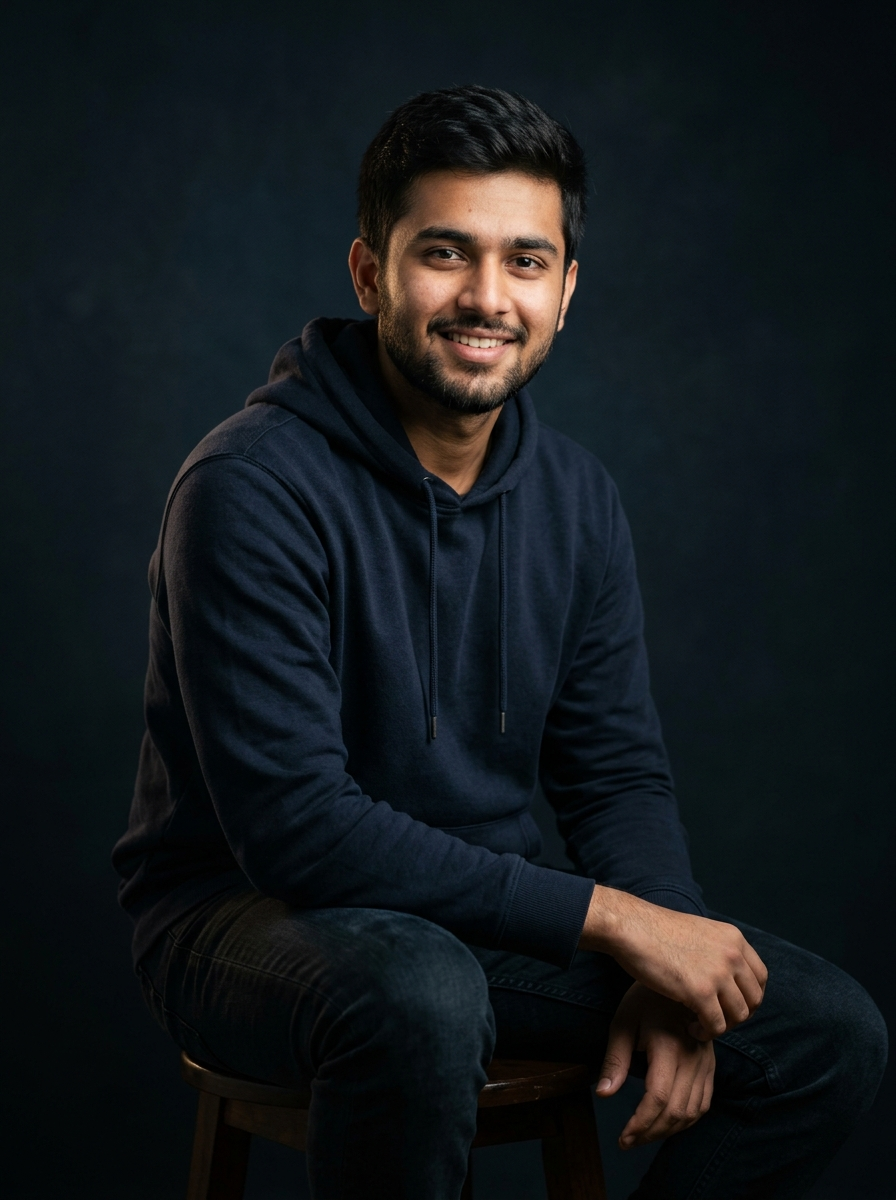
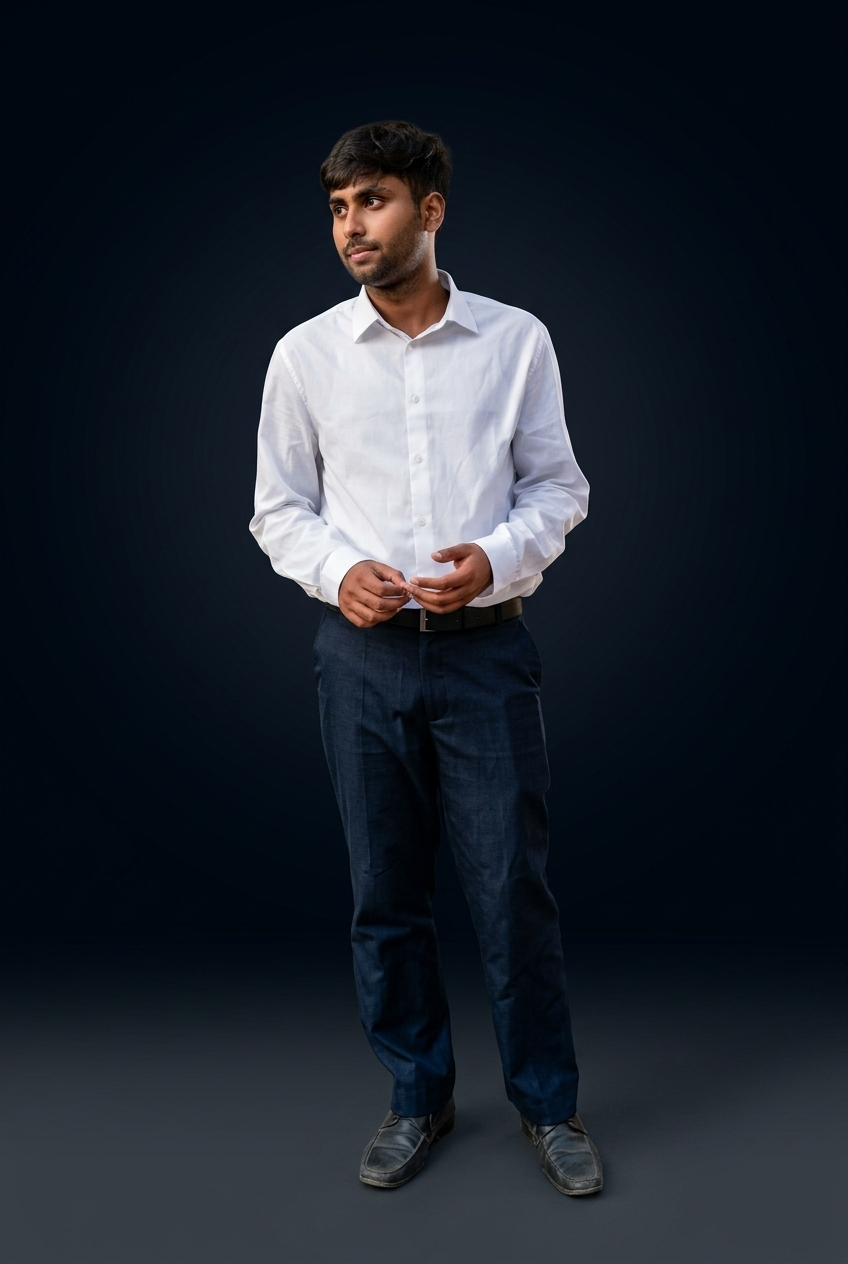
feat: replace hero portrait with enhanced professional photo

diff --git a/components/Hero.jsx b/components/Hero.jsx
@@ -26,15 +26,9 @@ export default function Hero() {
       {/* ── Portrait fills right side ── */}
       <div className="absolute inset-0 z-0">
         <div className="absolute right-0 top-0 h-full w-full sm:w-[60%] lg:w-[55%]">
-          {/* Animated Spider-Sense Glow over portrait */}
-          <motion.div
-            animate={{ opacity: [0.3, 0.7, 0.3], scale: [1, 1.04, 1] }}
-            transition={{ duration: 2.5, repeat: Infinity, ease: "easeInOut" }}
-            className="absolute top-10 right-1/4 w-48 h-48 rounded-full bg-red-600/20 blur-2xl z-10 pointer-events-none"
-          />
           <Image
-            src="/spiderman-hero.jpg"
-            alt="Asmit Raj – Spider-Man Software Engineer"
+            src="/hero.jpg"
+            alt="Asmit Raj – Aspiring Software Engineer"
             fill
             priority
             className="object-cover object-top"
@@ -44,8 +38,8 @@ export default function Hero() {
           <div className="absolute inset-0 bg-gradient-to-r from-[#050505] via-[#050505]/85 to-transparent" />
           {/* Fade bottom */}
           <div className="absolute inset-0 bg-gradient-to-t from-[#050505] via-transparent to-transparent" />
-          {/* Subtle red/blue superhero rim on right edge */}
-          <div className="absolute inset-0 bg-gradient-to-l from-red-900/40 via-sky-950/20 to-transparent" />
+          {/* Subtle red rim on right edge */}
+          <div className="absolute inset-0 bg-gradient-to-l from-red-950/30 to-transparent" />
         </div>
         {/* Hard dark left panel so text is always crisp */}
         <div className="absolute inset-y-0 left-0 w-1/2 bg-[#050505]" />
@@ -75,12 +69,12 @@ export default function Hero() {
 
             {/* Role badge */}
             <motion.div variants={item}>
-              <div className="inline-flex items-center gap-2 px-4 py-2 rounded-lg bg-[#0D0D0D]/90 border border-red-900/50 backdrop-blur-sm shadow-[0_0_15px_rgba(220,38,38,0.2)]">
-                <span className="text-red-500 font-bold text-sm">🕷</span>
+              <div className="inline-flex items-center gap-2 px-4 py-2 rounded-lg bg-[#0D0D0D]/90 border border-[#3F1111] backdrop-blur-sm">
+                <Code2 className="w-4 h-4 text-red-500" />
                 <span className="text-[#F5F5F5] font-semibold text-sm sm:text-base tracking-wide">
-                  Spider-Man & Software Engineer
+                  Aspiring Software Engineer
                 </span>
-                <span className="h-4 w-px bg-red-900/50" />
+                <span className="h-4 w-px bg-[#3F1111]" />
                 <span className="flex items-center gap-1.5 text-xs text-emerald-400 font-mono">
                   <span className="relative flex h-2 w-2">
                     <span className="animate-ping absolute inline-flex h-full w-full rounded-full bg-emerald-400 opacity-75" />
